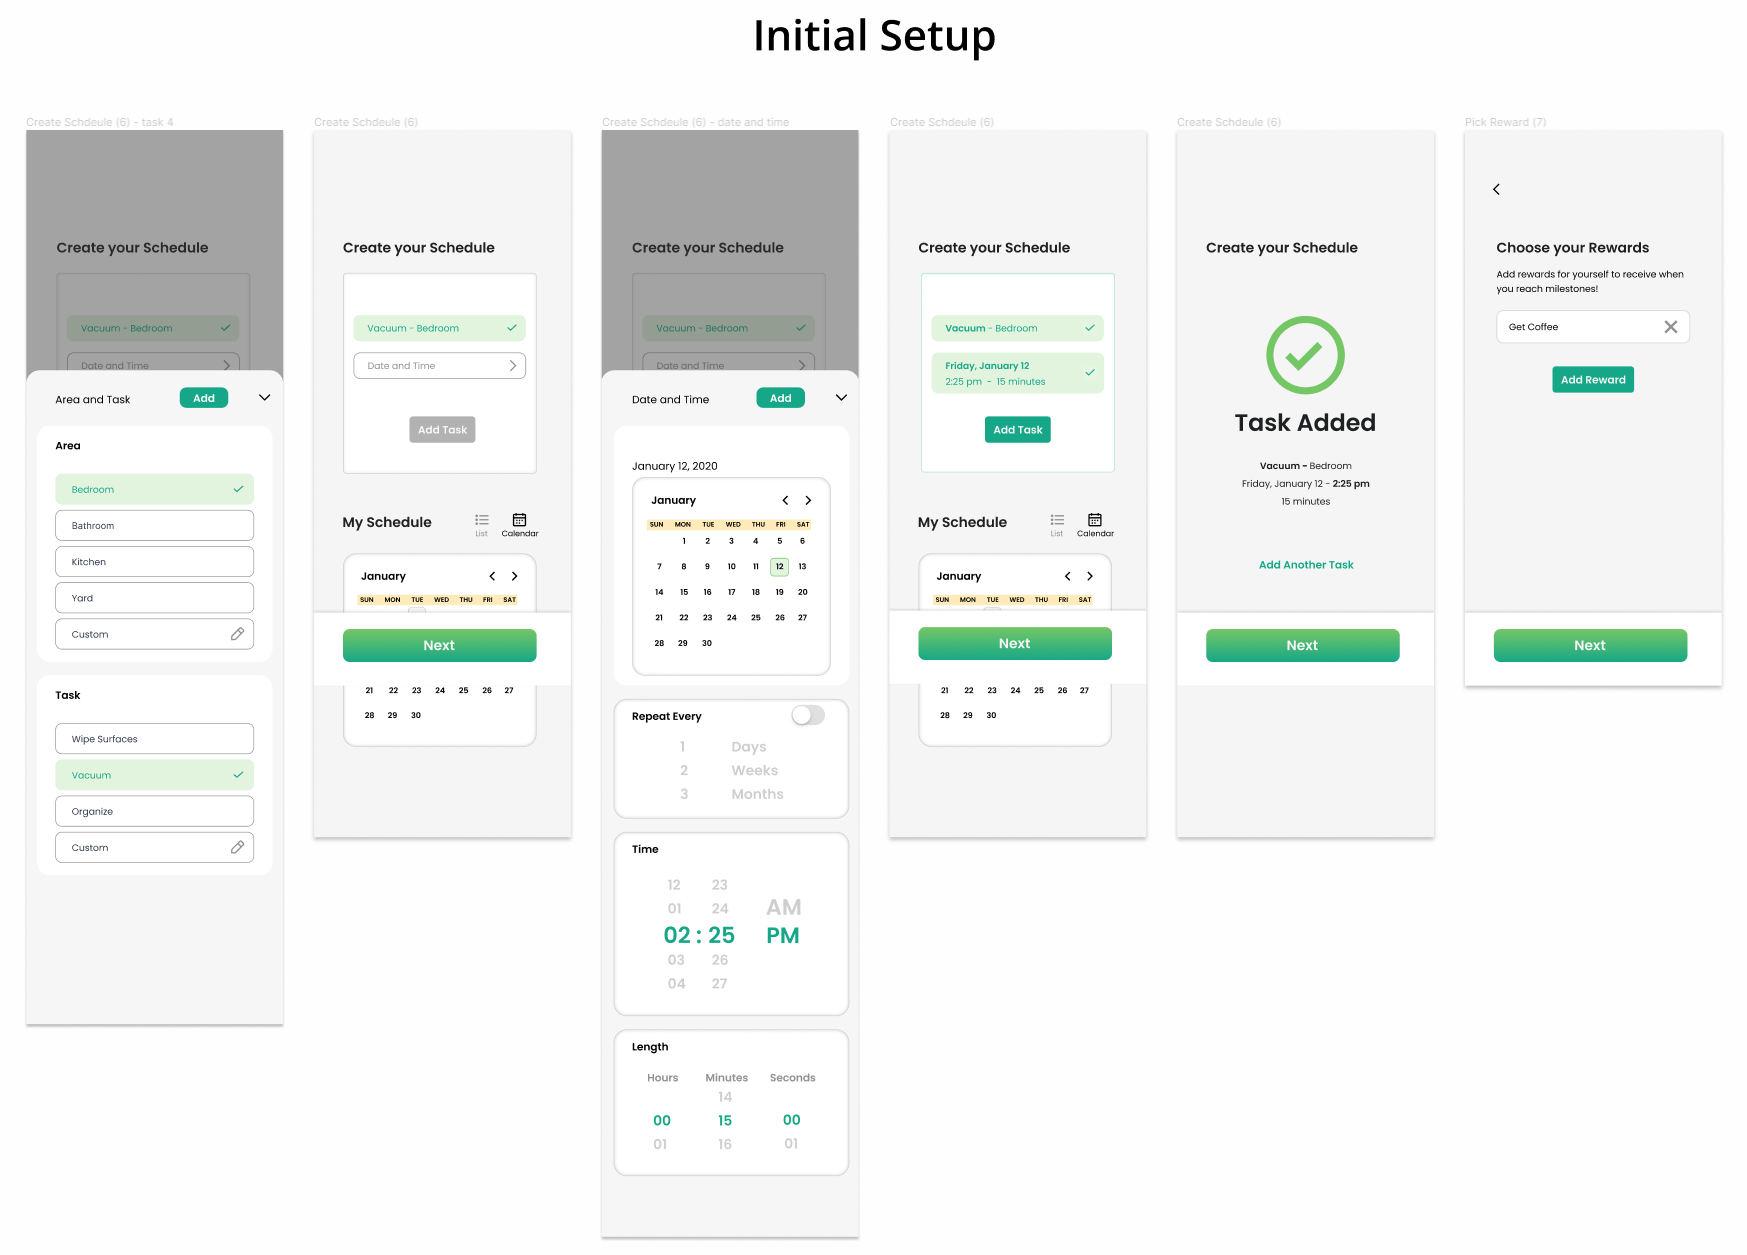
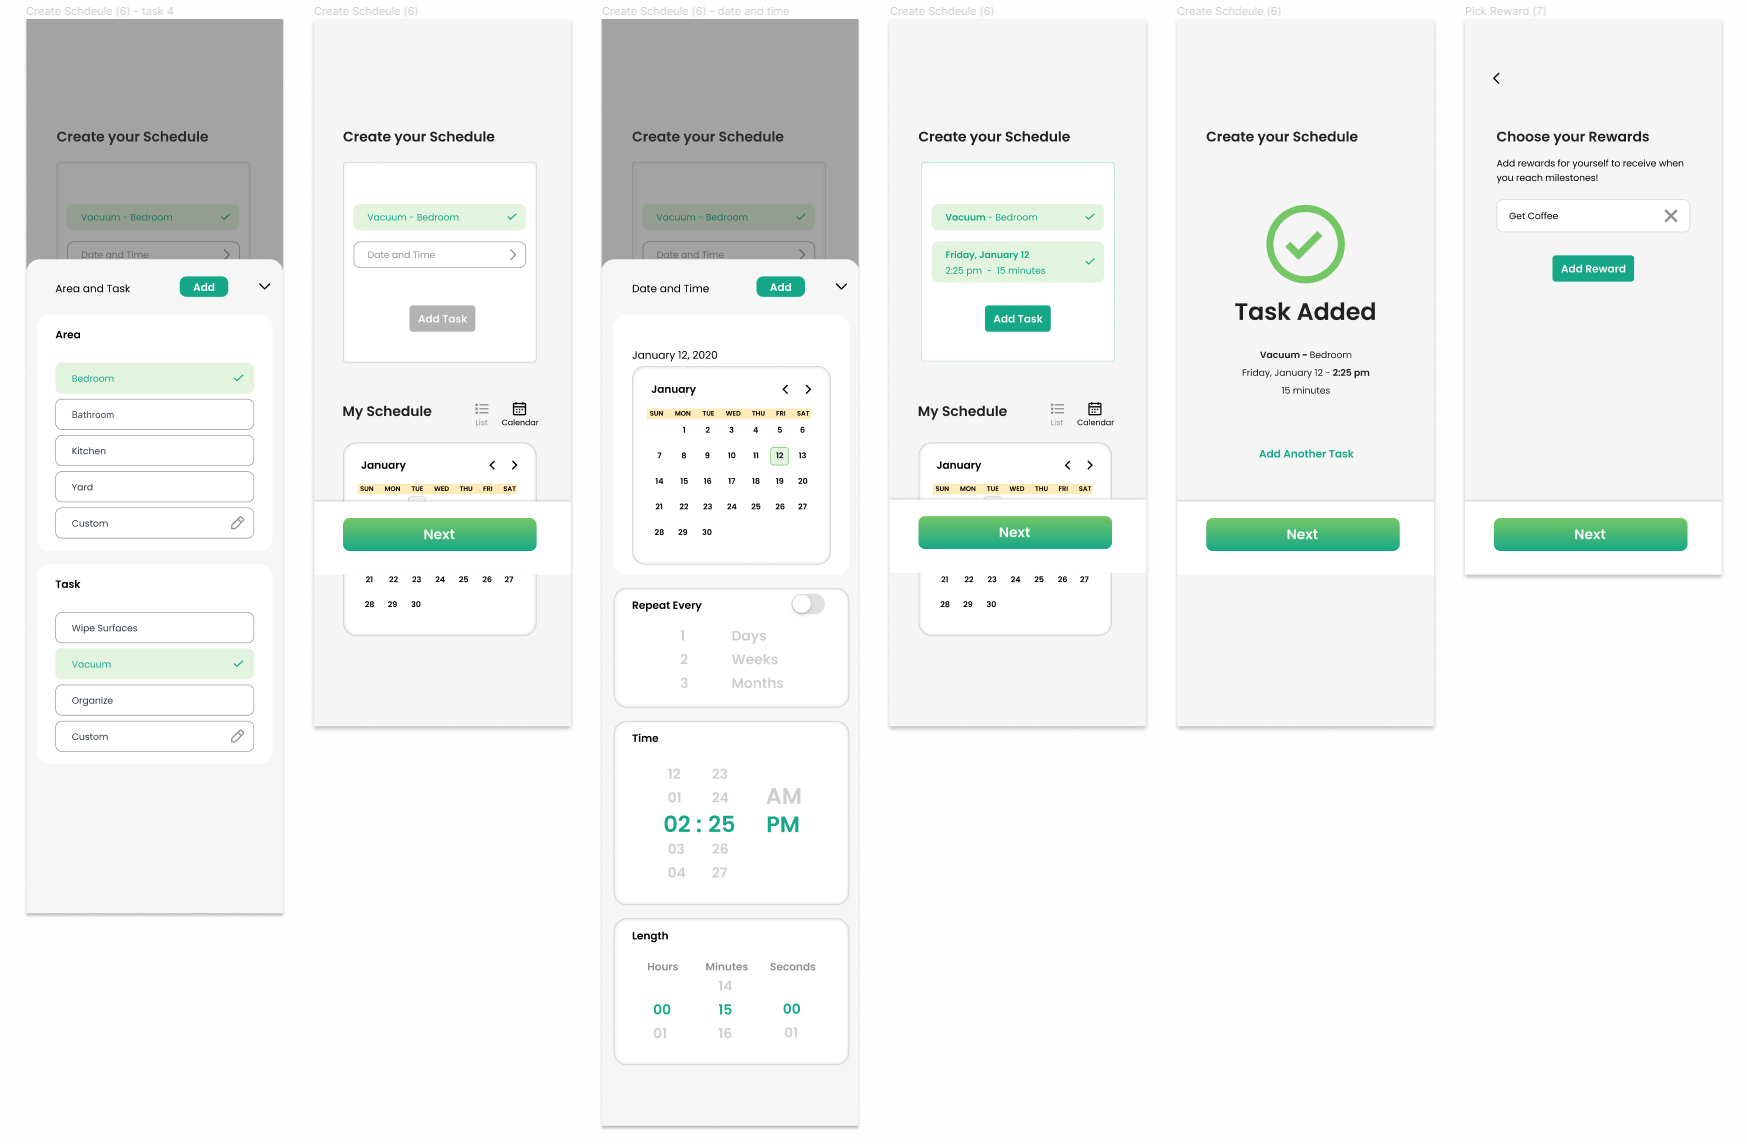
added titles to cleanly

diff --git a/piecePage2.html b/piecePage2.html
@@ -242,9 +242,13 @@
             <div class="info">
                 <div class="stage"> <p>MOCKUPS</p> </div>
                 <h2>Final Design</h2>
+                <h3 class="mockupTitle">Onboarding</h3>
                 <img src="images/cleanly/cleanlyMockup1-min (1).png" alt="image of the Cleanly styles guide">
+                <h3 class="mockupTitle">Initial Setup</h3>
                 <img src="images/cleanly/cleanlyMockup2-min.png" alt="image of the Cleanly styles guide">
+                <h3 class="mockupTitle">App Main Pages</h3>
                 <img src="images/cleanly/cleanlyMockup3-min.png" alt="image of the Cleanly styles guide">
+                <h3 class="mockupTitle">Task Completion</h3>
                 <img src="images/cleanly/cleanlyMockup4-min.png" alt="image of the Cleanly styles guide">
             </div>
 
